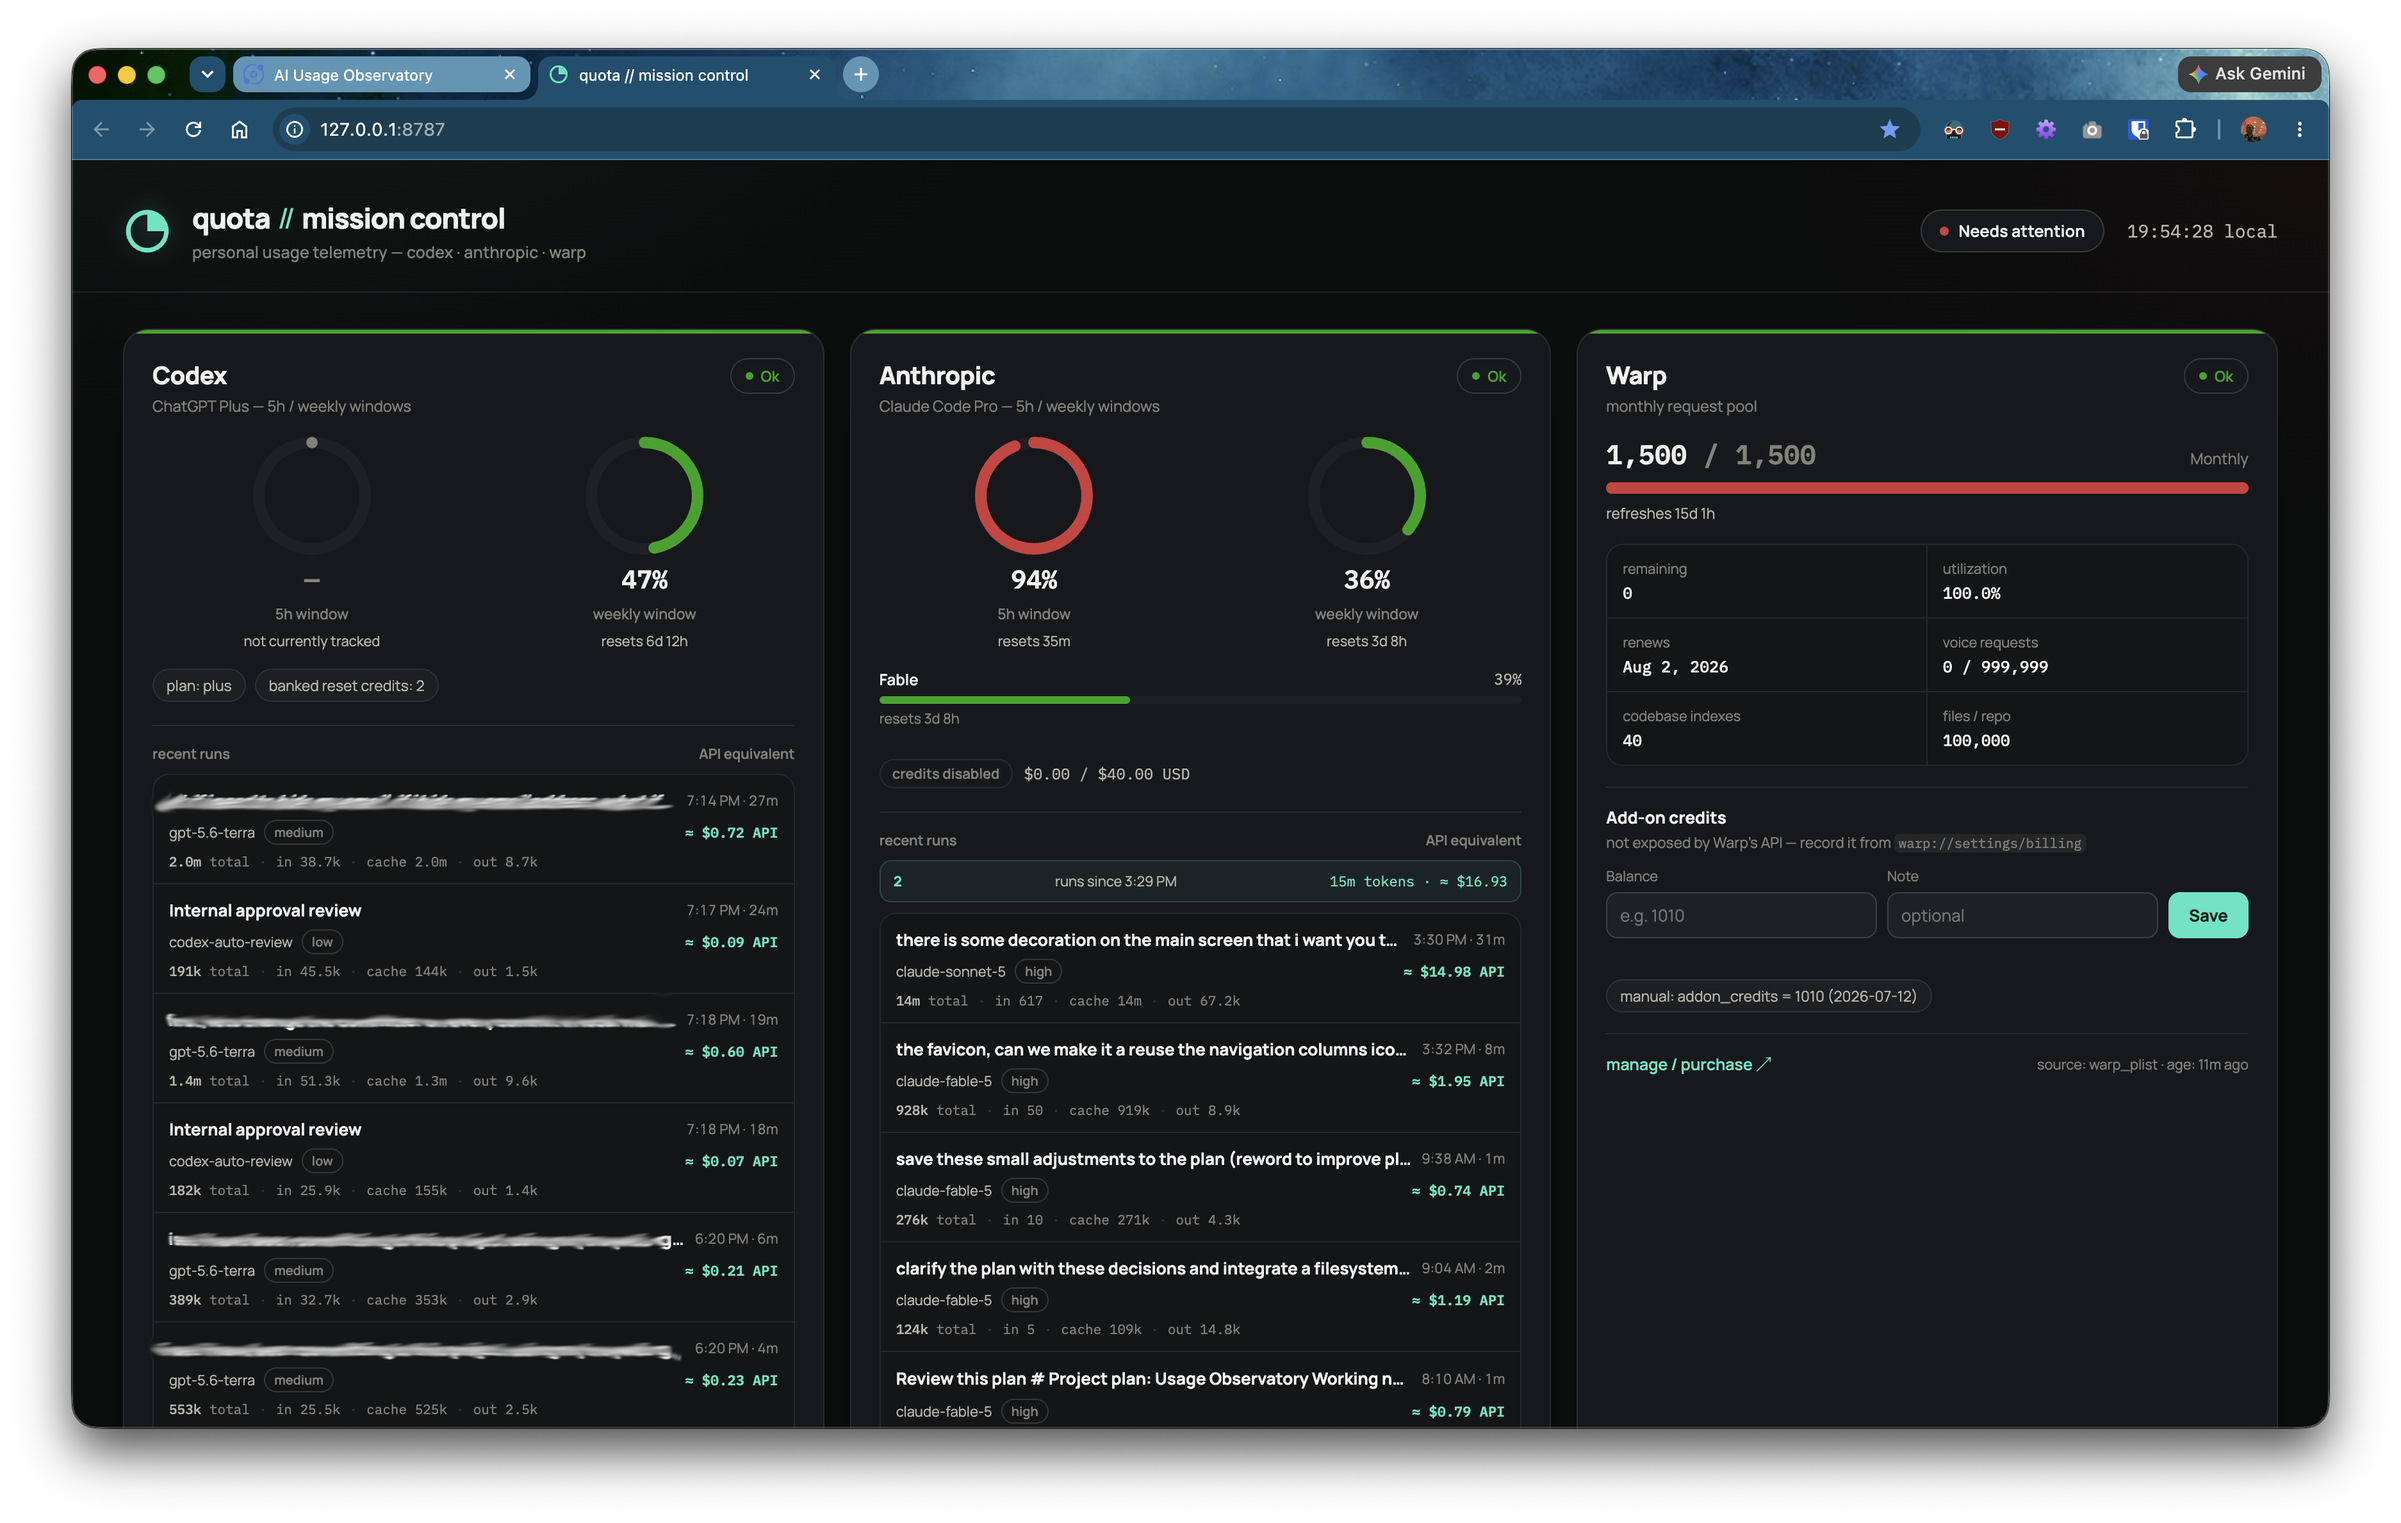
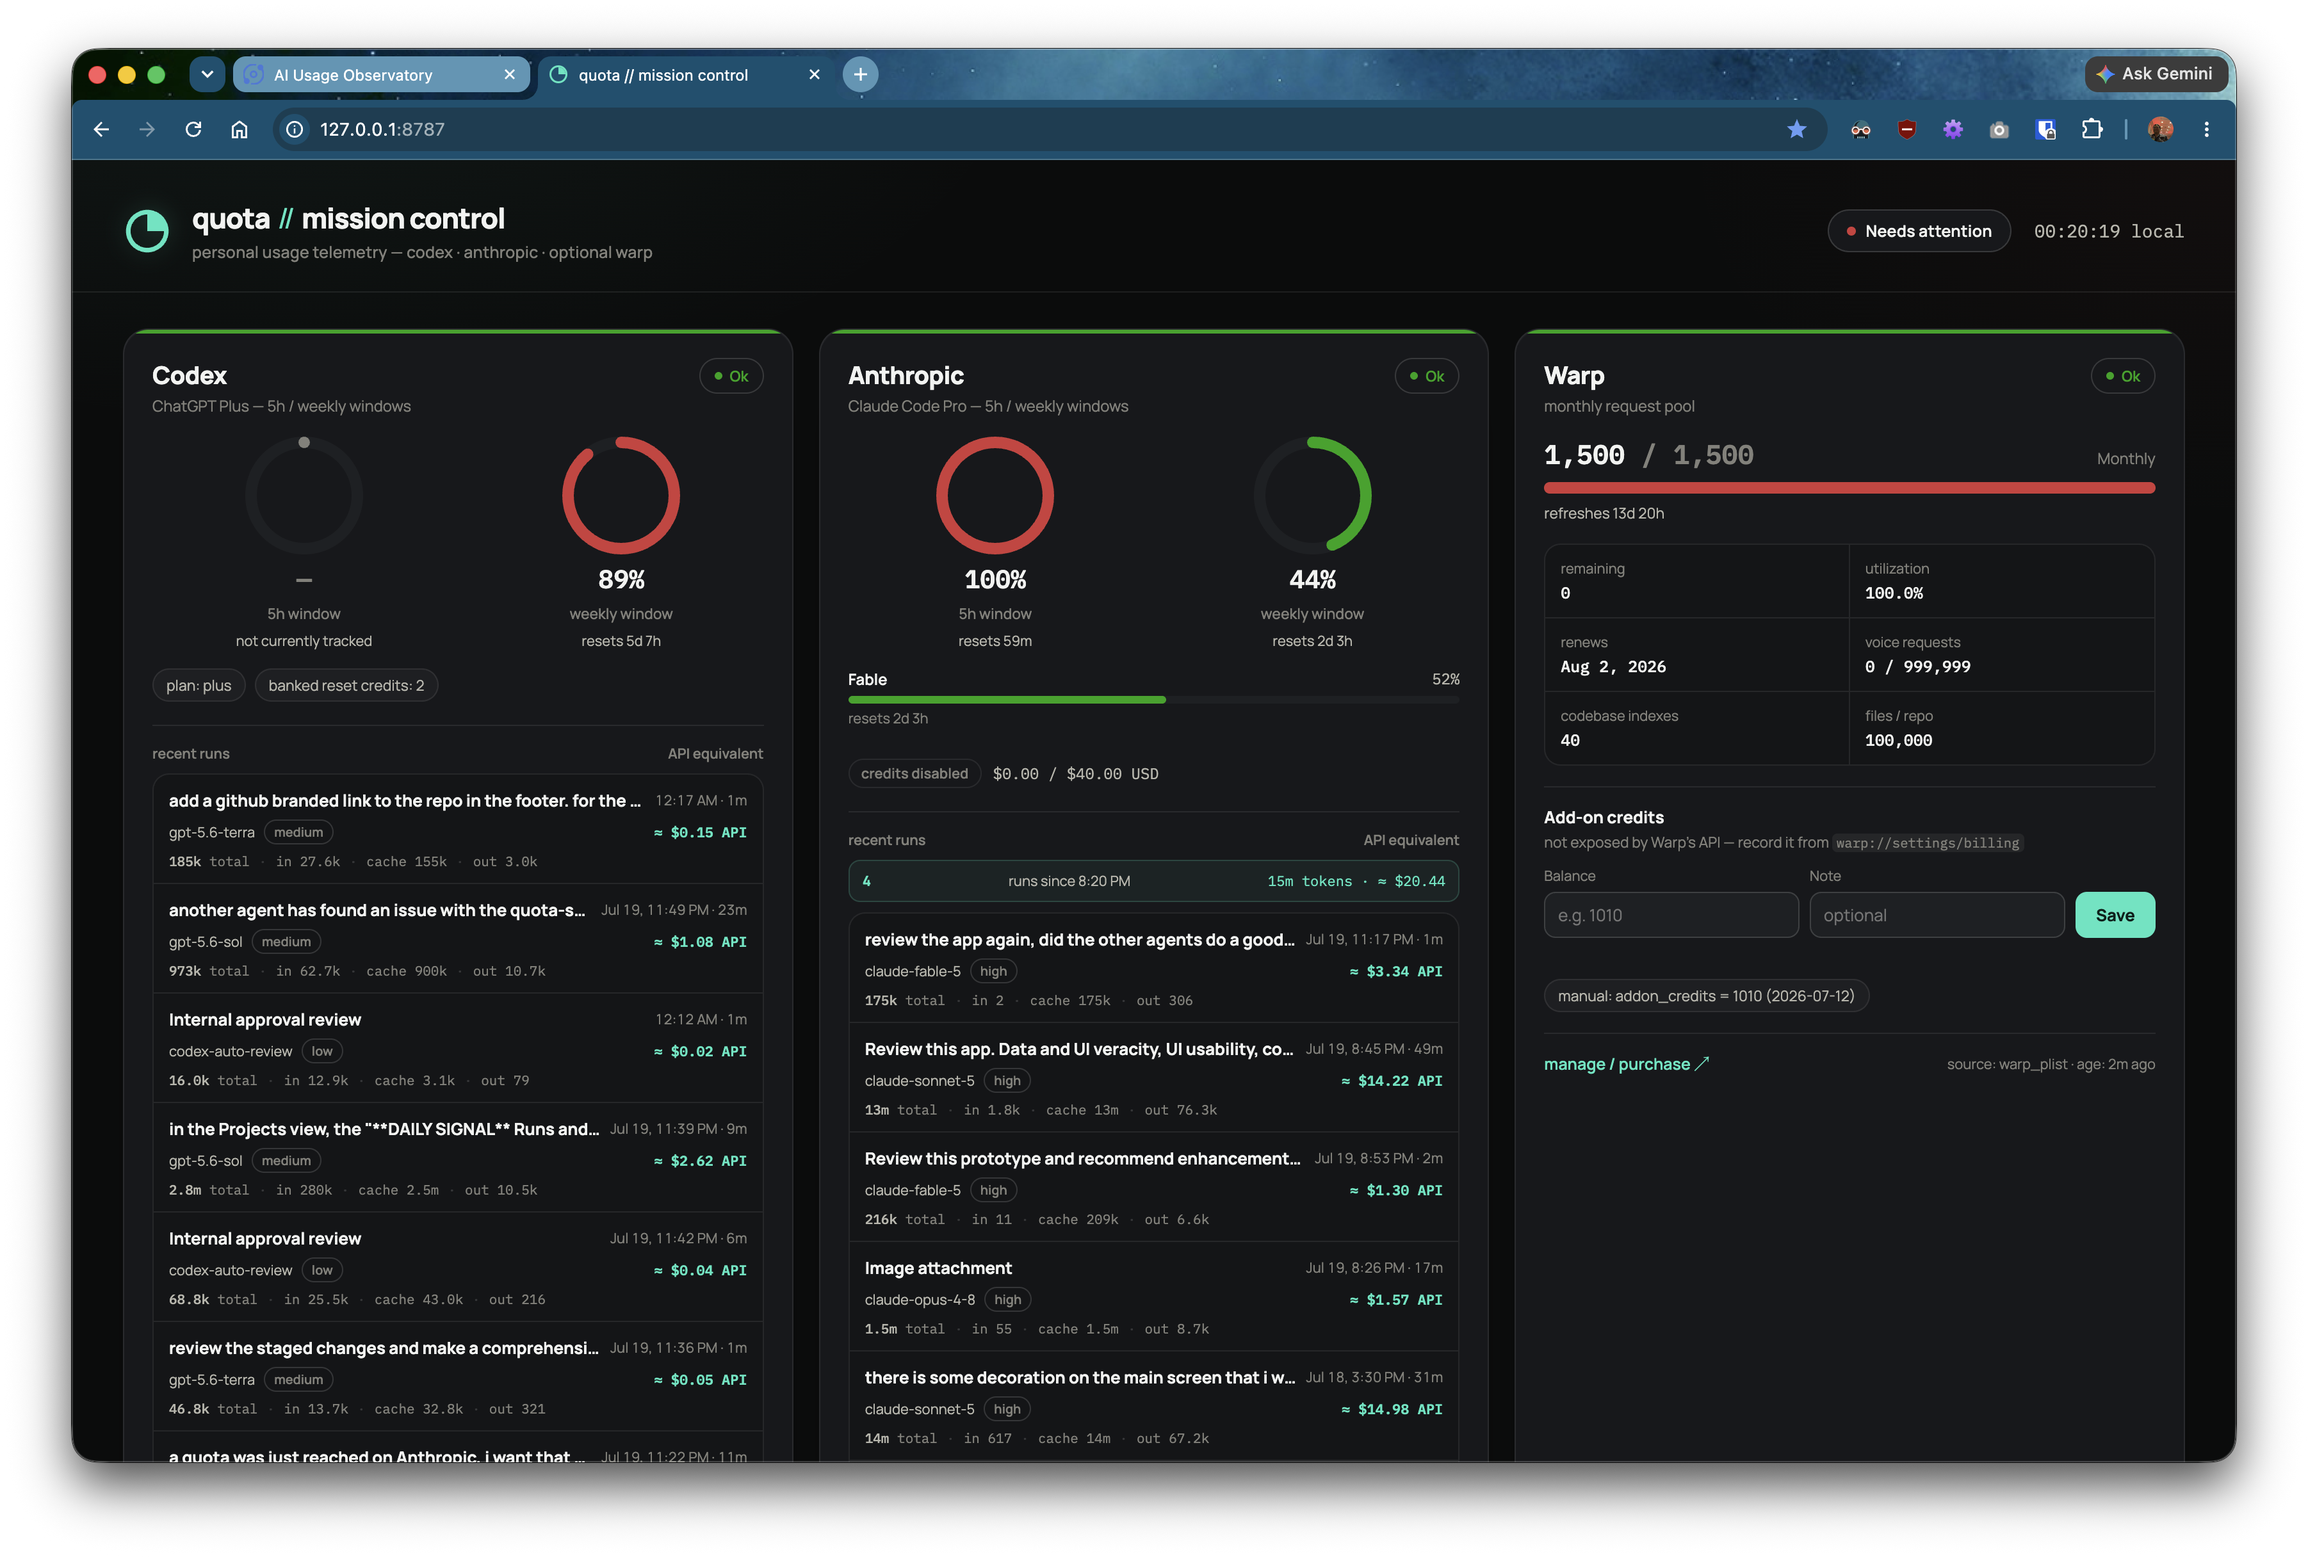
chore(release): v1.0.0

diff --git a/public/index.html b/public/index.html
@@ -20,9 +20,10 @@
       </div>
     </div>
     <div class="topbar-right">
-      <div id="overall-badge" class="overall-badge" data-state="ok">
+      <div id="overall-badge" class="overall-badge" data-state="ok" tabindex="0" aria-describedby="overall-badge-tooltip">
         <span class="dot"></span>
         <span class="overall-text">All systems nominal</span>
+        <span id="overall-badge-tooltip" class="overall-badge-tooltip" role="tooltip">A conservative summary across every provider. “Needs attention” means at least one provider is unavailable or unknown; “Headroom tightening” means data is stale or a quota window is 60%+ used; otherwise no reported window is 60%+ used. It reflects the single worst signal, not a combined quota.</span>
       </div>
       <div class="clock" id="clock">--:--:--</div>
     </div>
@@ -52,6 +53,10 @@
 
   <footer class="footer">
     <span>generated <span id="generated-at">—</span></span>
+    <a class="github-link" href="https://github.com/anobjectn/quota-service" target="_blank" rel="noopener noreferrer" aria-label="quota-service repository on GitHub">
+      <svg aria-hidden="true" viewBox="0 0 16 16" width="16" height="16" fill="currentColor"><path d="M8 0C3.58 0 0 3.58 0 8c0 3.54 2.29 6.53 5.47 7.59.4.07.55-.17.55-.38 0-.19-.01-.82-.01-1.49-2.01.37-2.53-.49-2.69-.94-.09-.23-.48-.94-.82-1.13-.28-.15-.68-.52-.01-.53.63-.01 1.08.58 1.23.82.72 1.21 1.87.87 2.33.66.07-.52.28-.87.51-1.07-1.78-.2-3.64-.89-3.64-3.95 0-.87.31-1.59.82-2.15-.08-.2-.36-1.02.08-2.12 0 0 .67-.21 2.2.82A7.64 7.64 0 0 1 8 4.5c.68 0 1.36.09 2 .26 1.53-1.04 2.2-.82 2.2-.82.44 1.1.16 1.92.08 2.12.51.56.82 1.27.82 2.15 0 3.07-1.87 3.75-3.65 3.95.29.25.54.73.54 1.48 0 1.07-.01 1.93-.01 2.2 0 .21.15.46.55.38A8.01 8.01 0 0 0 16 8c0-4.42-3.58-8-8-8Z"/></svg>
+      <span>GitHub</span>
+    </a>
     <span class="legend">
       <span class="legend-item"><span class="dot dot-ok"></span>ok</span>
       <span class="legend-item"><span class="dot dot-warning"></span>stale</span>

diff --git a/public/styles.css b/public/styles.css
@@ -115,6 +115,7 @@ code {
 .topbar-right { display: flex; align-items: center; gap: 18px; }
 
 .overall-badge {
+  position: relative;
   display: flex;
   align-items: center;
   gap: 8px;
@@ -125,6 +126,38 @@ code {
   font-size: 12.5px;
   font-weight: 600;
   letter-spacing: 0.01em;
+}
+
+.overall-badge:focus-visible {
+  outline: 2px solid var(--accent);
+  outline-offset: 3px;
+}
+
+.overall-badge-tooltip {
+  position: absolute;
+  z-index: 2;
+  top: calc(100% + 10px);
+  right: 0;
+  width: min(330px, calc(100vw - 36px));
+  padding: 10px 12px;
+  border: 1px solid var(--hairline-strong);
+  border-radius: var(--radius-sm);
+  background: var(--surface-2);
+  box-shadow: var(--shadow-card);
+  color: var(--ink-secondary);
+  font-size: 12px;
+  font-weight: 500;
+  line-height: 1.45;
+  opacity: 0;
+  pointer-events: none;
+  transform: translateY(-4px);
+  transition: opacity 140ms ease, transform 140ms ease;
+}
+
+.overall-badge:hover .overall-badge-tooltip,
+.overall-badge:focus .overall-badge-tooltip {
+  opacity: 1;
+  transform: translateY(0);
 }
 
 .overall-badge .dot {
@@ -802,6 +835,18 @@ code {
   font-size: 12px;
   color: var(--ink-muted);
 }
+
+.github-link {
+  display: inline-flex;
+  align-items: center;
+  gap: 6px;
+  color: var(--ink-secondary);
+  text-decoration: none;
+}
+
+.github-link:hover,
+.github-link:focus-visible { color: var(--accent); }
+.github-link:focus-visible { outline: 2px solid var(--accent); outline-offset: 3px; border-radius: 3px; }
 
 .legend { display: flex; gap: 16px; }
 .legend-item { display: flex; align-items: center; gap: 6px; }

diff --git a/src/collectors/codex.ts b/src/collectors/codex.ts
@@ -272,7 +272,7 @@ export async function collectCodexFromApi(): Promise<CollectorResult> {
   try {
     const headers: Record<string, string> = {
       Authorization: `Bearer ${accessToken}`,
-      "User-Agent": "quota-service/0.1 (+codex-cli-compatible)",
+      "User-Agent": "quota-service/1.0.0 (+codex-cli-compatible)",
     };
     if (accountId) headers["ChatGPT-Account-Id"] = accountId;
     const res = await fetch(`${WHAM_BASE}/usage`, { headers, signal: AbortSignal.timeout(FETCH_TIMEOUT_MS) });
@@ -331,7 +331,7 @@ export async function collectCodexResetCredits(): Promise<ResetCreditsResult> {
   try {
     const headers: Record<string, string> = {
       Authorization: `Bearer ${accessToken}`,
-      "User-Agent": "quota-service/0.1 (+codex-cli-compatible)",
+      "User-Agent": "quota-service/1.0.0 (+codex-cli-compatible)",
     };
     if (accountId) headers["ChatGPT-Account-Id"] = accountId;
     const res = await fetch(`${WHAM_BASE}/rate-limit-reset-credits`, { headers, signal: AbortSignal.timeout(FETCH_TIMEOUT_MS) });

diff --git a/src/mcp.ts b/src/mcp.ts
@@ -21,7 +21,7 @@ const db = openDb();
 
 const server = new McpServer({
   name: "quota-service",
-  version: "0.1.0",
+  version: "1.0.0",
 });
 
 server.registerTool(
